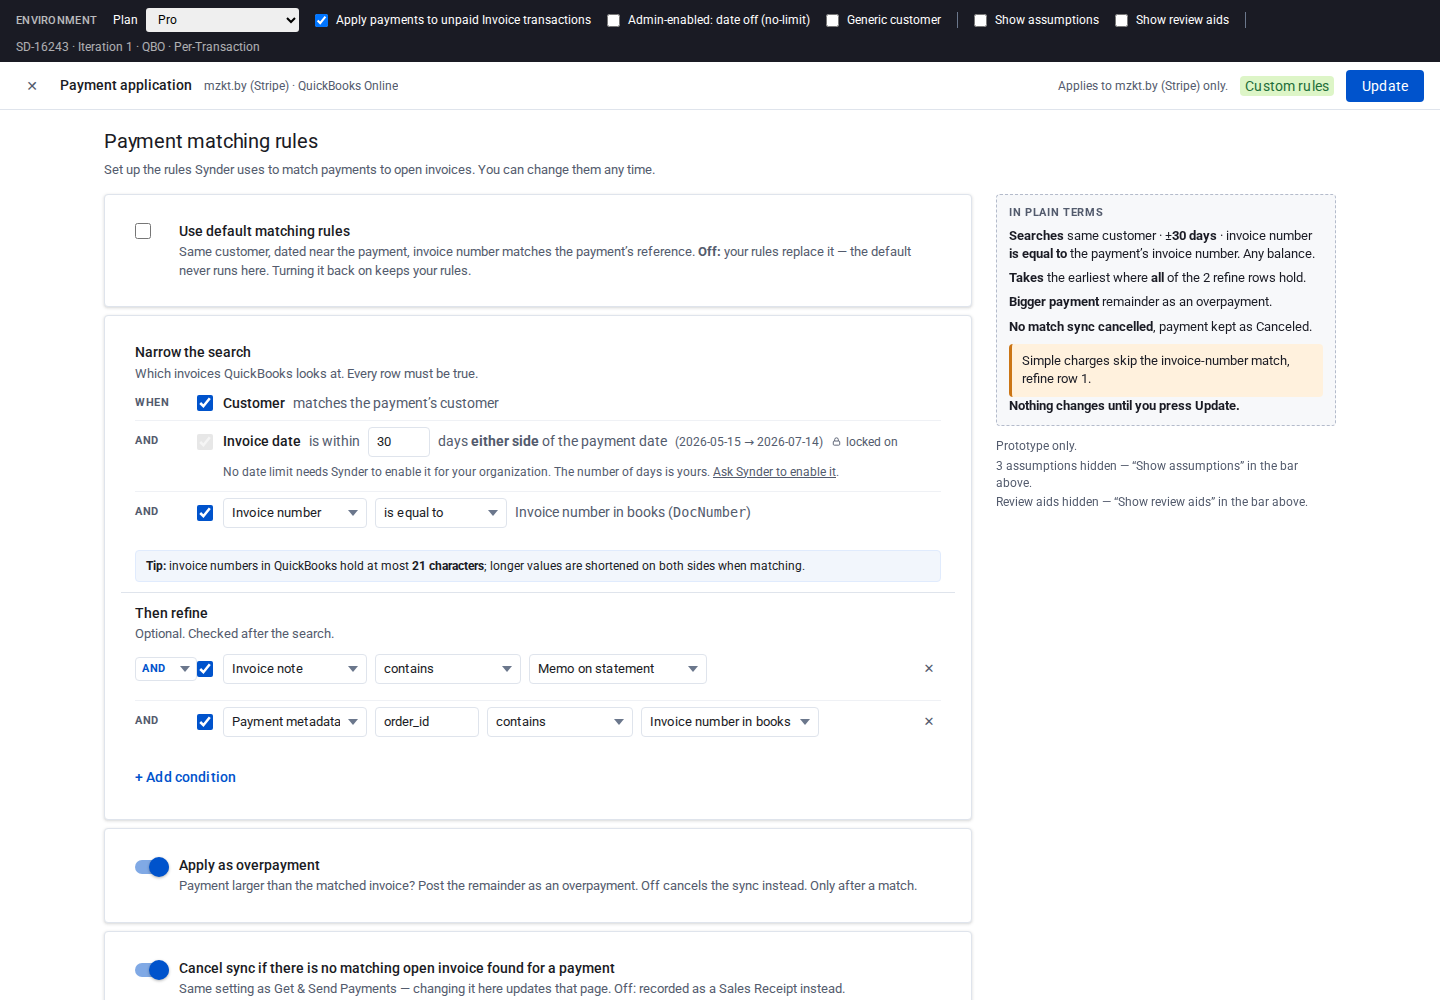
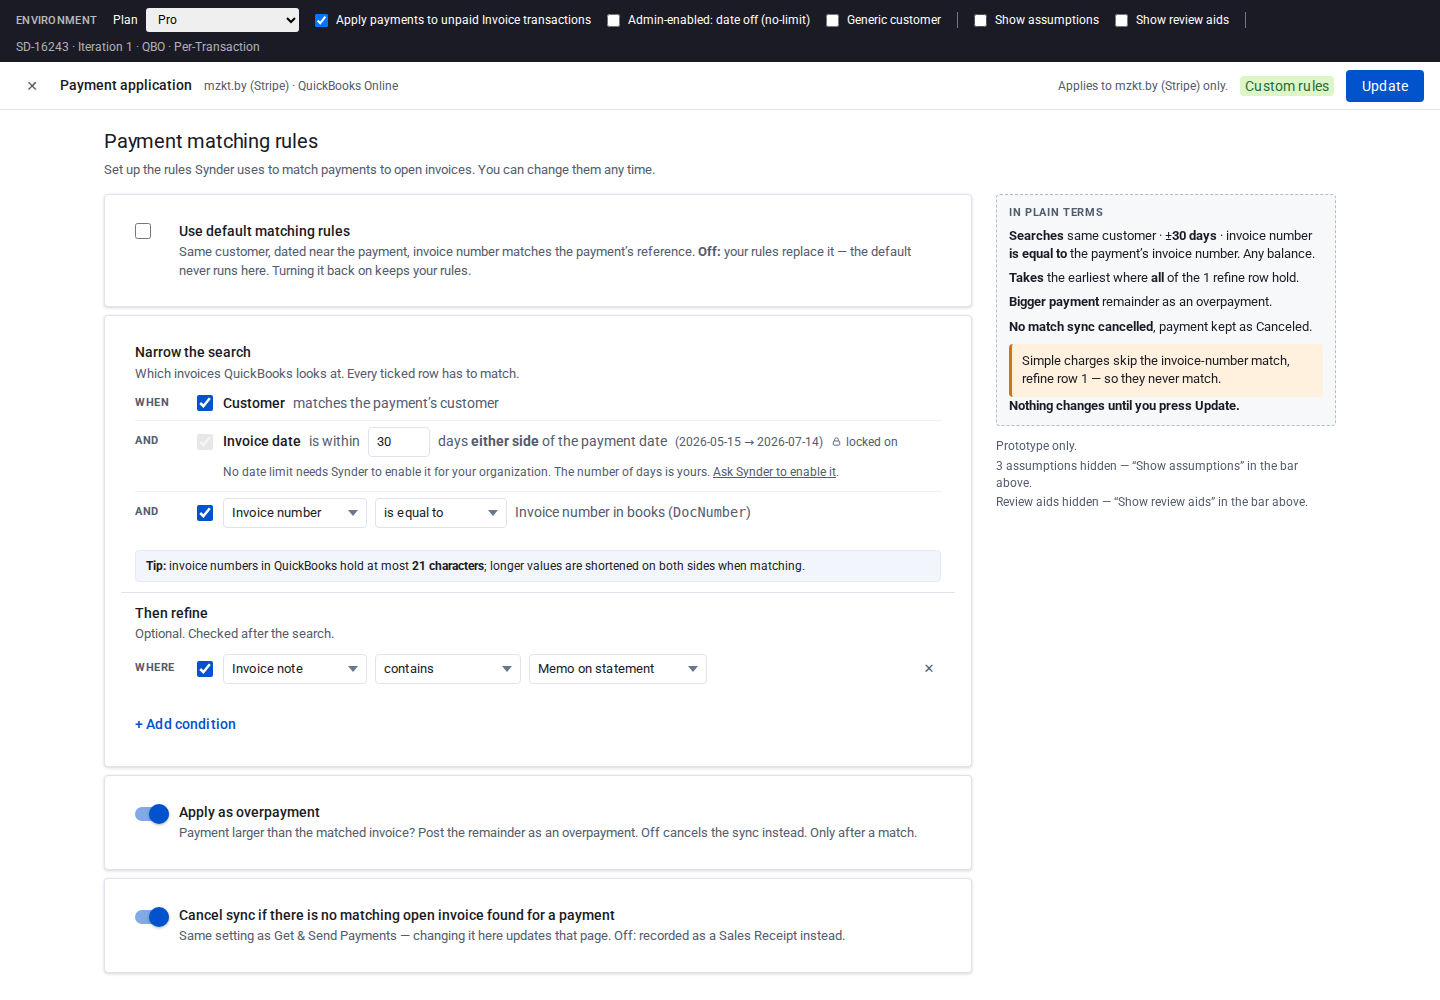
Payment application v4: an unticked row is absent, not false
"What does it mean true? Selected? If the row is unchecked is it true? Sounds
unclear." Right on both counts, and chasing it found two bugs the copy was
covering for.

- copy: "Every ticked row has to match." An unticked row is not false, it is not
  in the search at all.
- the gutter was lying: an unticked row still printed AND, implying it was still
  part of the conjunction. The join word now describes the rows actually in the
  search — unticked shows nothing, the first ticked row shows WHEN, the rest AND.
  Untick Customer and the date row becomes WHEN.
- the refine-row checkbox was a dead control: rendered checked, bound to nothing.
  Now real state — the engine skips unticked rows, validation stops demanding
  their Stripe field, the read-out counts only ticked rows, every control in the
  row greys out, and the chevron moves to the first ticked row.

Second dead-control bug in two rounds, and both were invisible to the
pointer-cursor gate because they are real inputs.

verify-payapp-v4.cjs: 158 assertions, 0 failures, including the unticked states.

diff --git a/projects/payment-application-v4/overlay.html b/projects/payment-application-v4/overlay.html
@@ -352,7 +352,7 @@ function validate(){
   if (s.match.on && needsKey(s.match.source) && !s.match.key.trim())
     e.push({field:'scope-key', msg:'Name the Stripe field that holds the reference.'});
   cfg.conditions.forEach((c,i)=>{
-    if (!valueless(c.operand) && needsKey(c.source) && !(c.key||'').trim())
+    if (c.on!==false && !valueless(c.operand) && needsKey(c.source) && !(c.key||'').trim())
       e.push({field:'cond-'+i, msg:'Name the Stripe field that holds the reference.'});
   });
   return e;
@@ -392,8 +392,9 @@ function run(txn){
   log.push('QuickBooks returned: '+(snapshot.length ? snapshot.map(i=>i.doc).join(', ') : '(nothing)')+' — earliest invoice date first. Any balance qualifies.');
   if (!snapshot.length) return finish(txn, snapshot, null, 'no-candidates', log, true);
 
+  const active = cfg.conditions.filter(c=>c.on!==false);
   const applicable = [];
-  cfg.conditions.forEach(c=>{
+  active.forEach(c=>{
     if (valueless(c.operand)){
       log.push('Refine row “the invoice’s '+TARGETS[c.target].short+' '+OPS[c.operand].label+'” reads the invoice only, so it always applies.');
       applicable.push({c, val:null});
@@ -403,8 +404,8 @@ function run(txn){
     if (r.absent){ log.push('Refine row “'+SOURCES[c.source].label+'” is absent on this '+txn.type+' → skipped, not applicable.'); return; }
     applicable.push({c, val:r.value});
   });
-  if (!cfg.conditions.length){                                   // R16
-    log.push('No refine rows → take the first invoice QuickBooks returned.');
+  if (!active.length){                                           // R16
+    log.push('No refine rows in the search → take the first invoice QuickBooks returned.');
     return finish(txn, snapshot, snapshot[0], 'matched', log, true);
   }
   if (!applicable.length){                                       // R17
@@ -452,8 +453,15 @@ function ruleSummary(){
   if (s.customer.on) b.push('same customer');
   if (s.date.on)     b.push('±'+s.date.n+' days');
   if (s.match.on)    b.push('invoice number '+OPS[s.match.operand].label+' the payment’s '+SOURCES[s.match.source].label.toLowerCase());
-  if (cfg.conditions.length) b.push(cfg.conditions.length+' refine row'+(cfg.conditions.length>1?'s':''));
+  const nSum = cfg.conditions.filter(c=>c.on!==false).length;
+  if (nSum) b.push(nSum+' refine row'+(nSum>1?'s':''));
   return b.join(' · ');
+}
+/* the join word belongs to the rows that are actually in the search: an
+   unticked row shows nothing, the first ticked row shows WHEN, the rest AND */
+function joinWord(list, i, firstWord, restWord){
+  if (!list[i]) return '';
+  return i === list.indexOf(true) ? firstWord : restWord;
 }
 function snapshotDisc(){
   ['sql','sim'].forEach(k=>{ const d=document.getElementById('d-'+k); if(d) ui.open[k]=d.open; });
@@ -492,11 +500,12 @@ function render(){
 
   // Narrow the search
   h += '<div class="grp"><div class="grp-t">Narrow the search</div>'+
-    '<div class="grp-d">Which invoices QuickBooks looks at. Every row must be true.</div>'+
+    '<div class="grp-d">Which invoices QuickBooks looks at. Every ticked row has to match.</div>'+
     '<div class="rows">';
 
+  const scopeOn = [s.customer.on, s.date.on, s.match.on];
   h += '<div class="r'+(s.customer.on?'':' off')+'">'+
-    '<span class="r-j">WHEN</span>'+
+    '<span class="r-j">'+joinWord(scopeOn, 0, 'WHEN', 'AND')+'</span>'+
     '<span class="r-cb">'+cb('c-cust', s.customer.on, {labelledby:'n-cust'})+'</span>'+
     '<span class="r-c" id="n-cust"><span class="nm">Customer</span> <span class="d">matches the payment’s customer</span></span>'+
     '<span class="r-x"></span>'+
@@ -515,7 +524,7 @@ function render(){
 
   const dateFree = env.adminNoLimit;
   h += '<div class="r'+(s.date.on?'':' off')+'">'+
-    '<span class="r-j">AND</span>'+
+    '<span class="r-j">'+joinWord(scopeOn, 1, 'WHEN', 'AND')+'</span>'+
     '<span class="r-cb">'+cb('c-date', s.date.on, {labelledby:'n-date', disabled:!dateFree, describedby:dateFree?'':'date-hint'})+'</span>'+
     '<span class="r-c" id="n-date"><span class="nm">Invoice date</span> '+
       (s.date.on
@@ -535,7 +544,7 @@ function render(){
     '</div></div>';
 
   h += '<div class="r'+(s.match.on?'':' off')+'">'+
-    '<span class="r-j">AND</span>'+
+    '<span class="r-j">'+joinWord(scopeOn, 2, 'WHEN', 'AND')+'</span>'+
     '<span class="r-cb">'+cb('c-match', s.match.on, {labelledby:'n-match'})+'</span>'+
     '<span class="r-c" id="n-match">'+
       (s.match.on
@@ -566,23 +575,28 @@ function render(){
   h += '<div class="grp"><div class="grp-t">Then refine</div>'+
     '<div class="grp-d">Optional. Checked after the search.</div>'+
     '<div class="rows">';
+  const refineOn = cfg.conditions.map(c=>c.on!==false);
+  const firstOn = refineOn.indexOf(true);
+  const activeCount = refineOn.filter(Boolean).length;
   cfg.conditions.forEach((c,i)=>{
     const noVal = valueless(c.operand);
-    h += '<div class="r">'+
-      // only the first row carries the chevron, and it governs the whole group
-      '<span class="r-j">'+(i===0
-        ? (cfg.conditions.length>1
-            ? sel('c-join', [['AND','AND'],['OR','OR']], cfg.combinator, 'join', false, 'Combine all refine rows with AND or OR')
-            : 'WHERE')
-        : cfg.combinator)+'</span>'+
-      '<span class="r-cb">'+cb('ce-'+i, true, {label:'Include refine row '+(i+1)})+'</span>'+
+    const isOn = refineOn[i];
+    h += '<div class="r'+(isOn?'':' off')+'">'+
+      // the chevron sits on the first row in the search and governs them all
+      '<span class="r-j">'+(!isOn ? ''
+        : i===firstOn
+          ? (activeCount>1
+              ? sel('c-join', [['AND','AND'],['OR','OR']], cfg.combinator, 'join', false, 'Combine all refine rows with AND or OR')
+              : 'WHERE')
+          : cfg.combinator)+'</span>'+
+      '<span class="r-cb">'+cb('ce-'+i, isOn, {label:'Include refine row '+(i+1)})+'</span>'+
       '<span class="r-c">'+
-        sel('cs-'+i, srcOpts(), c.source, 'w-src', noVal, 'Refine row '+(i+1)+': on the payment, take the value from')+
+        sel('cs-'+i, srcOpts(), c.source, 'w-src', noVal||!isOn, 'Refine row '+(i+1)+': on the payment, take the value from')+
         (needsKey(c.source) && !noVal
-          ? '<input class="k w-key" id="ck-'+i+'" list="meta-keys" placeholder="Stripe field" value="'+esc(c.key||'')+'" data-efield="cond-'+i+'" aria-label="Refine row '+(i+1)+': which Stripe field holds the reference">'
+          ? '<input class="k w-key" id="ck-'+i+'" list="meta-keys" placeholder="Stripe field" value="'+esc(c.key||'')+'"'+(isOn?'':' disabled')+' data-efield="cond-'+i+'" aria-label="Refine row '+(i+1)+': which Stripe field holds the reference">'
           : '')+
-        sel('co-'+i, allOpts(), c.operand, 'w-op', false, 'Refine row '+(i+1)+': comparison')+
-        sel('ct-'+i, tgtOpts(), c.target, 'w-tgt', false, 'Refine row '+(i+1)+': on the invoice')+
+        sel('co-'+i, allOpts(), c.operand, 'w-op', !isOn, 'Refine row '+(i+1)+': comparison')+
+        sel('ct-'+i, tgtOpts(), c.target, 'w-tgt', !isOn, 'Refine row '+(i+1)+': on the invoice')+
       '</span>'+
       '<span class="r-x"><button class="del" id="cd-'+i+'" aria-label="Remove refine row '+(i+1)+'">✕</button></span>'+
       eslot('cond-'+i,'r-note')+
@@ -638,8 +652,9 @@ function plainTerms(){
                               (needsKey(s.match.source)? ' ['+esc(s.match.key||'…')+']':''));
   const li = [];
   li.push('<li><b>Searches</b> '+(bits.length ? bits.join(' · ') : '<b>nothing set — cannot be saved</b>')+'. Any balance.</li>');
-  li.push('<li><b>Takes</b> '+(cfg.conditions.length
-      ? 'the earliest where '+(cfg.combinator==='AND'?'<b>all</b>':'<b>any</b>')+' of the '+cfg.conditions.length+' refine row'+(cfg.conditions.length>1?'s':'')+' hold'
+  const nOn = cfg.conditions.filter(c=>c.on!==false).length;
+  li.push('<li><b>Takes</b> '+(nOn
+      ? 'the earliest where '+(cfg.combinator==='AND'?'<b>all</b>':'<b>any</b>')+' of the '+nOn+' refine row'+(nOn>1?'s':'')+' hold'
       : 'the <b>earliest</b> invoice found')+'.</li>');
   li.push('<li><b>Bigger payment</b> '+(cfg.overpayment ? 'remainder as an overpayment' : '<b>cancels the sync</b>')+'.</li>');
   li.push('<li><b>No match</b> '+(cfg.cancelSync ? '<b>sync cancelled</b>, payment kept as Canceled' : 'recorded as a <b>Sales Receipt</b>')+'.</li>');
@@ -650,7 +665,7 @@ function plainTerms(){
 
   const used = [];
   if (s.match.on) used.push({label:'the invoice-number match', src:s.match.source});
-  cfg.conditions.forEach((c,i)=>{ if(!valueless(c.operand)) used.push({label:'refine row '+(i+1), src:c.source}); });
+  cfg.conditions.forEach((c,i)=>{ if(c.on!==false && !valueless(c.operand)) used.push({label:'refine row '+(i+1), src:c.source}); });
   const dead = used.filter(u=>!SOURCES[u.src].on.SalesReceipt);
   if (dead.length){
     h += '<div class="warn" style="margin-bottom:0">Simple charges skip '+dead.map(d=>d.label).join(', ')+
@@ -804,7 +819,7 @@ function bind(){
   // one stored value (R18): commits on change here and on GSP, never a draft
   ch('c-cancel', ()=>{ cfg.cancelSync=!cfg.cancelSync; saved.cancelSync=cfg.cancelSync; post({type:'cancel-sync', on:cfg.cancelSync}); R(); });
   ch('c-join',   e=>{ cfg.combinator=e.target.value; R(); });
-  on('c-add',    ()=>{ cfg.conditions.push({source:'invoice_note', operand:'contains', target:'private_note', key:''}); R(); });
+  on('c-add',    ()=>{ cfg.conditions.push({on:true, source:'invoice_note', operand:'contains', target:'private_note', key:''}); R(); });
 
   // the number field must never re-render — a re-render replaces the node and
   // one ArrowUp would eject focus
@@ -831,6 +846,7 @@ function bind(){
   if (mk) mk.oninput = e=>{ s.match.key=e.target.value; refresh(); };
 
   cfg.conditions.forEach((c,i)=>{
+    ch('ce-'+i, e=>{ c.on = e.target.checked; R(); });
     ch('cs-'+i, e=>{ c.source=e.target.value; if(!needsKey(c.source)) c.key=''; R(); });
     ch('co-'+i, e=>{ c.operand=e.target.value; R(); });
     ch('ct-'+i, e=>{ c.target=e.target.value; R(); });

diff --git a/memory/2026-09-02.md b/memory/2026-09-02.md
@@ -321,3 +321,34 @@ two columns away, so the prose was duplicating them. Flagged to him as the singl
 
 Also moved the no-fallback guarantee (R1) out of the read-out and onto the mode card, where it
 belongs — one line saved, and the assertion moved with it rather than being dropped.
+
+## Evening, part 3 — "what does 'true' mean?"
+
+Ignat on my new sub-line *"Every row must be true"*: **"what does it mean true? Selected? If the
+row is unchecked is it true? Sounds unclear."**
+
+He was right, and chasing it found two real bugs that the copy was papering over.
+
+1. **"True" is logician's language and it collided with the checkbox.** An unticked row is not
+   *false* — it is **not in the search at all**. Copy is now *"Every ticked row has to match."*
+2. **The gutter was lying.** An unticked row still printed `AND`, implying it was still part of the
+   conjunction. The join word now describes the rows actually in the search: unticked shows nothing,
+   the first ticked row shows `WHEN`, the rest `AND`. Untick Customer and the date row becomes WHEN.
+3. **The refine-row checkbox was a dead control.** Rendered checked, bound to nothing — unticking it
+   did literally nothing. Now it is real state (`c.on`): the engine skips unticked rows, validation
+   stops demanding their Stripe field, the read-out counts only ticked rows, the controls grey out,
+   and the join word disappears. The chevron moves to the first *ticked* row.
+
+### The lesson
+
+**A copy question can be a symptom.** He asked what one word meant; the honest answer was that the
+word was covering for a screen that did not model the state. When copy is hard to write, check
+whether the thing being described is actually coherent — three times today the copy problem was a
+behaviour problem underneath.
+
+Also: **a checkbox that changes nothing is worse than no checkbox.** Second dead-control bug in two
+rounds (the other: "+ Add condition" creating an invalid row). Both were invisible to the
+pointer-cursor gate because they are real `<input>`s. Worth a gate of its own — every checkbox in
+the rules column must have a change handler.
+
+`verify-payapp-v4.cjs` — **158 assertions, 0 failures**, including the unticked-row states.
